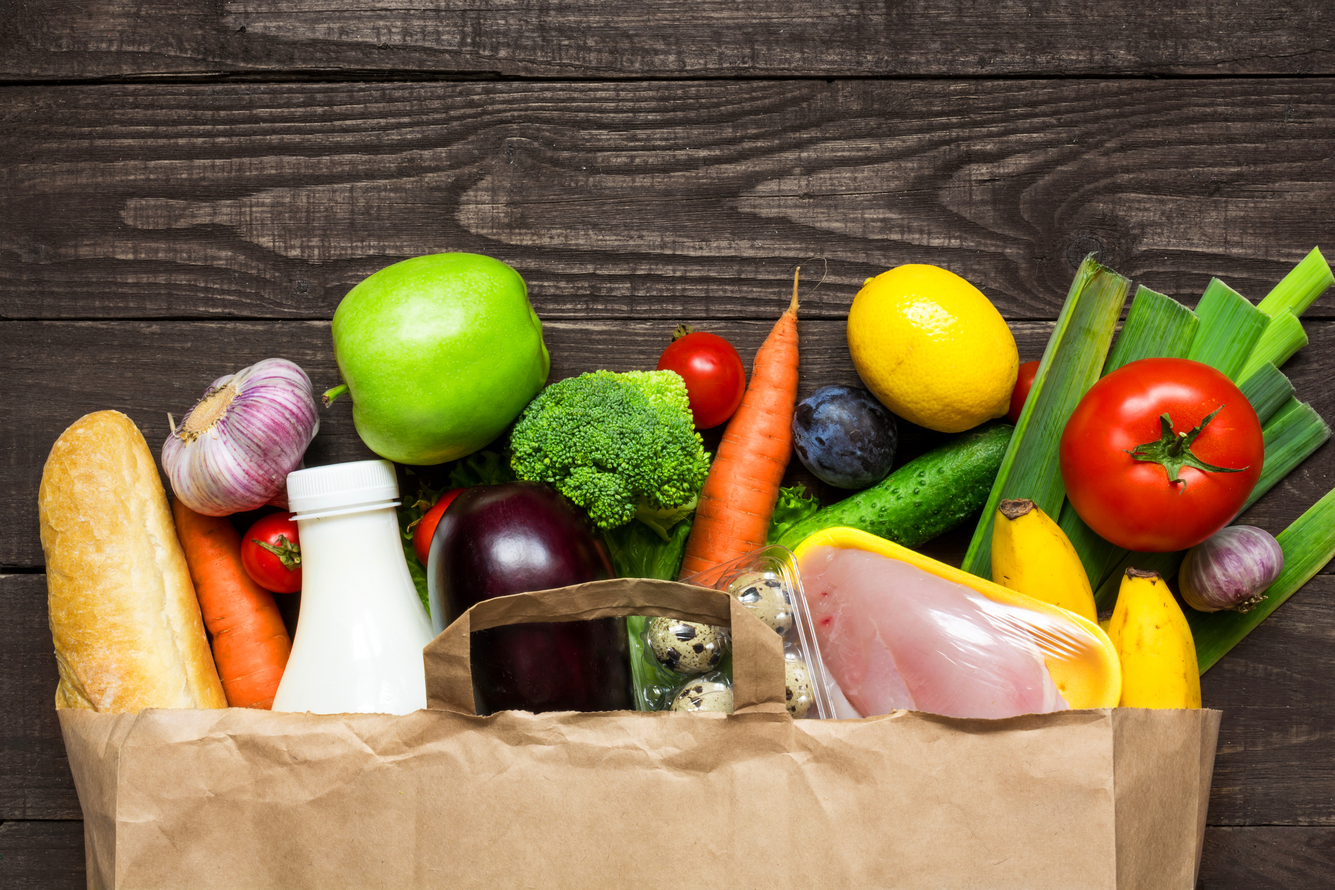
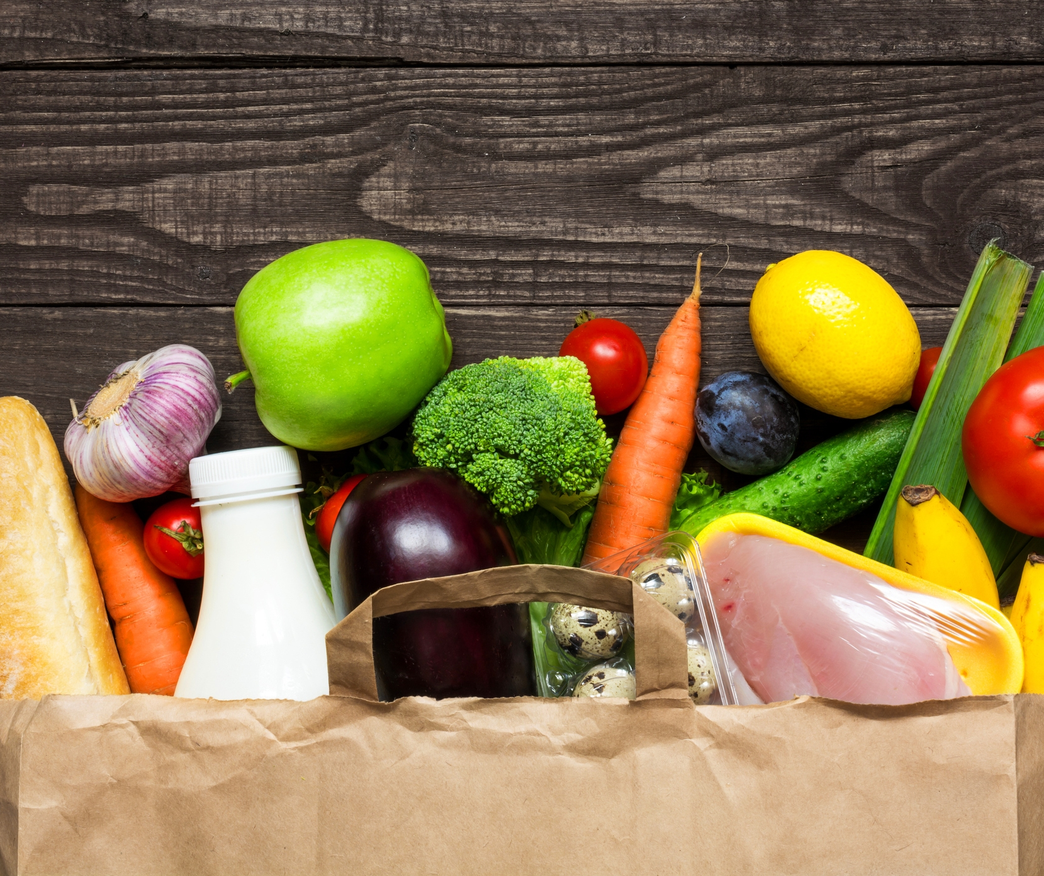
Fix for carousel.

diff --git a/shopanon/templates/shop/home.html b/shopanon/templates/shop/home.html
@@ -18,10 +18,12 @@
 
     <div class="carousel-inner">
         <div class="carousel-item active">
-            <center><img height="auto" min-height="600px" width="100%" src="{{MEDIA_URL}}images/sign_up.jpg"></img></center>
[1 lines of base64/hex data omitted]
+            <center><img src="{{MEDIA_URL}}images/sign_up.jpg"></img></center>
             <div class="container">
                 <div class="carousel-caption text-dark">
-                    <h1>Grocery Store Delivery-Share</h1>
+                    <h1>Shopaholics Anonymous: <br/>
+                        Grocery Store Delivery-Share!</h1>
                     <hr>
                     <h1>Step 1: Sign Up!</h1>
                     <p>Start by providing a username and password, or if you're a UVA student, you can use your UVA
@@ -32,7 +34,9 @@
             </div>
         </div>
         <div class="carousel-item">
-            <center><img height="auto" min-height="600px" width="100%" width="auto" src="{{MEDIA_URL}}images/shopping2.jpg"></img></center>
+            <!--PICTURE: https://encrypted-tbn0.gstatic.com/images?q=tbn:ANd9GcTGhol3T6Q89AmYDugNv_Cr3d97cVFarNo6Of_YnyYFfSfxy14b-->
+            <center><img src="{{MEDIA_URL}}images/shopping2.jpg"></img></center>
+            <!--<svg class="bd-placeholder-img" width="100%" height="100%" xmlns="http://www.w3.org/2000/svg" preserveAspectRatio="xMidYMid slice" focusable="false" role="img"><rect width="100%" height="100%" fill="#777"></rect></svg>-->
             <div class="container">
                 <div class="carousel-caption text-dark">
 
@@ -44,7 +48,9 @@
             </div>
         </div>
         <div class="carousel-item">
-            <center><img height="auto" min-height="600px" width="100%" width="auto" src="{{MEDIA_URL}}images/driver_pickup.jpg"></img></center>
+            <!--PICTURE: https://encrypted-tbn0.gstatic.com/images?q=tbn:ANd9GcSGQGLZAlnX4KGx-1vG3IYDfhS90Ceks1w86ILDvq_0dMRJaClA-->
+            <center><img src="{{MEDIA_URL}}images/driver_pickup.jpg"></img></center>
+            <!--<svg class="bd-placeholder-img" width="100%" height="100%" xmlns="http://www.w3.org/2000/svg" preserveAspectRatio="xMidYMid slice" focusable="false" role="img"><rect width="100%" height="100%" fill="#777"></rect></svg>-->
             <div class="container">
                 <div class="carousel-caption text-dark">
 
@@ -57,7 +63,9 @@
             </div>
         </div>
         <div class="carousel-item">
-            <center><img height="auto" min-height="600px" width="100%" width="auto" src="{{MEDIA_URL}}images/bags.jpg"></img></center>
+            <!--PICTURE: https://thediwire.com/wp-content/uploads/2018/03/Full-paper-bag-of-different-health-food-on-rustic-wooden-background-836782690_2125x1416.jpeg-->
+            <center><img src="{{MEDIA_URL}}images/bags.jpg"></img></center>
+            <!--<svg class="bd-placeholder-img" width="100%" height="100%" xmlns="http://www.w3.org/2000/svg" preserveAspectRatio="xMidYMid slice" focusable="false" role="img"><rect width="100%" height="100%" fill="#777"></rect></svg>-->
             <div class="container">
                 <div class="carousel-caption text-dark">
                     <h1>Step 4: Payment!</h1>

diff --git a/static/custom.css b/static/custom.css
@@ -145,6 +145,10 @@ iframe{
     overflow:hidden;
 }
 
+.carousel-inner img {
+  margin: auto;
+}
+
 .nav-link:hover {color: #22BBA6;}
 
 .img-responsive{width:100%;}
